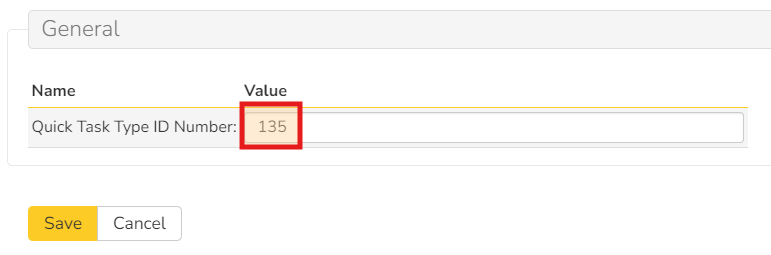
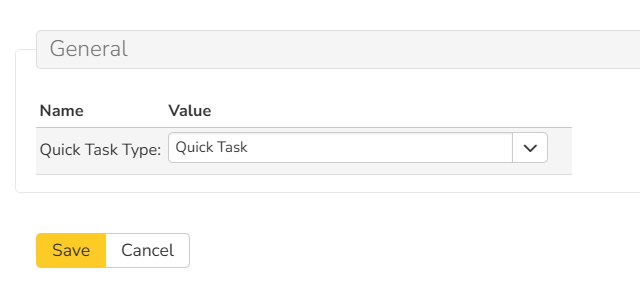
[IN:10281] updates the QuickTasks docs to reflect the most recent changes

diff --git a/docs/SpiraApps/QuickTasks.md b/docs/SpiraApps/QuickTasks.md
@@ -1,6 +1,6 @@
 # Quick Tasks SpiraApp
 
-!!! warning "This SpiraApp's functionality is not compatible with SpiraTest"
+!!! warning "This SpiraApp's functionality requires SpiraTeam or SpiraPlan to work."
 
 This SpiraApp lets users create, complete, and view tasks from a convenient Product Home Page widget. 
 
@@ -8,32 +8,32 @@ This SpiraApp lets users create, complete, and view tasks from a convenient Prod
 To effectively implement Quick Tasks in your product, you have to set up the Task Type that will be used and make it use a specific workflow. 
 
 ### Product Template Setup
-In the product template for each product that uses Quick Tasks, you need to:
+You need to configure each product template for the product(s) you want to use Quick Tasks:
 
 1. Go to Tasks > Workflow and add a new Workflow called "Quick Task Workflow". Do not change anything else about this workflow.
 
 2. Go to Tasks > Type and add a new Type called "Quick Task" (or other name of your choice) and select the Workflow you just created
 
-3. Record the ID number of that Type to use for the product setting
-
 ![A row in the Task Type table containing the following: Type ID number, Type name, selected workflow, "No" (for pull request switcher), an empty radio button (for default type), "Yes" (for Active switcher). There is a red outlined box around the Type ID number and the selected workflow](img/quicktasks-task-type-setting.png)
 
 !!! info "Reusing a Task Type"
-    If your team already uses a special Task Type for miscellaneous to-do items, you can use that instead of creating a new one.
+    If your team already uses a special Task Type for miscellaneous to-do items, you can use that instead of creating a new one, just make sure to associate it with the Quick Task Workflow you created on step 1.
 
 ### Product Settings
-For each product that uses Quick Tasks, you must fill in the Quick Tasks SpiraApp product setting: "Quick Task Type ID Number". Enter the ID number for the Task Type that you created in the Product Template. 
+For each product that uses Quick Tasks, a product administrator must select the default Quick Task Type in the Quick Tasks SpiraApp product settings.
 
 ![SpiraApp product settings page with the Quick Task Type ID Number outlined by a red box](img/quicktasks-product-settings.png)
 
 ## Using the SpiraApp
 
-!!! warning "Users must have Modify All Tasks permission in order to complete their owned tasks using this widget"
-!!! warning "Users must have View permissions for Releases in order to use this widget"
+!!! warning "Users must have 'Modify All' Tasks permission in order to complete their owned tasks using this widget"
+!!! warning "Users must have 'View' permissions for Releases in order to use this widget"
 
 ### Using the Quick Tasks Widget
 
-This widget serves as a group to-do list for all your users that can create tasks in your product. The widget shows the Name, End Date, and Owner of the most recent Quick Tasks, along with the Release if the task has one. You can also use the top row of the table to create a new Quick Task. This is automatically assigned to you, given the "In Progress" Status, and given the Type chosen in the product setting. 
+This widget serves as a group to-do list for all users who can create Tasks in the product. The widget displays the Name, End Date, and Owner of the most recent Quick Tasks, along with the Release if the Task has one. Select the option ‘Show only my Tasks?’ to limit the list to Tasks where you are the Owner.
+
+You can use the top row of the table to create a new Quick Task. This is automatically assigned to you, given the "In Progress" Status, and given the Type chosen in the product setting. 
 
 If a release is selected using the Product Home Page release dropdown, only Quick Tasks for that release will be shown, and any newly created Quick Tasks will be added to that release.
 
@@ -43,4 +43,4 @@ Below the incomplete Quick Tasks, the widget also shows up to five Completed Qui
 
 ![Product home page widget with four incomplete tasks and one completed task. Two different names across the five tasks are shown in the Owner column, and two of the incomplete tasks have a release in small text underneath the task name](img/quicktasks-widget.png)
 
-Note that when a release is selected on the product home page, the end date for the task will always match the end date for the release, and cannot be changed by the user. When entering a date, make sure to use YYYY-MM-DD format or the date will be rejected. The exact datetime used for the end date for tasks is 11:59:59 PM in your timezone on the date that you enter. So if you enter "2025-01-01", the computed datetime will be "2025-01-01T11:59:59". The widget also rejects dates in the past, since the purpose of this widget is to help you plan out your next few tasks for the current day or week, not to keep track of work you have already done.
+Note that when a release is selected on the product home page, the end date for the task will always match the end date for the release, and cannot be changed by the user. When entering a date, please note the widget rejects dates in the past, since the purpose of this widget is to help you plan out your next few tasks for the current day or week, not to keep track of work you have already done.
